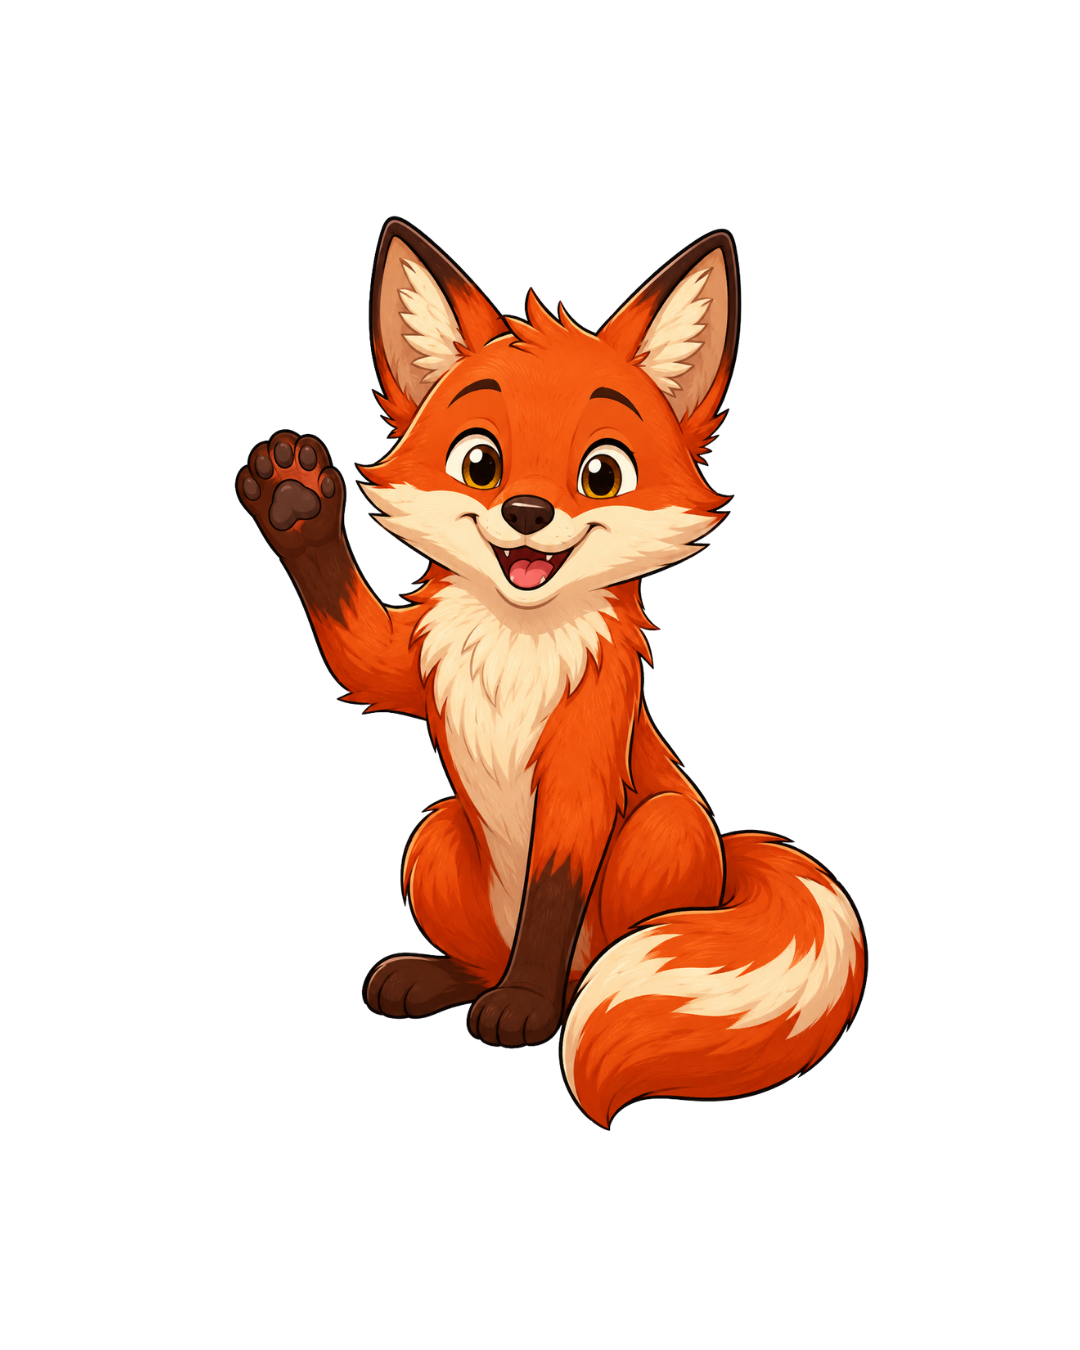
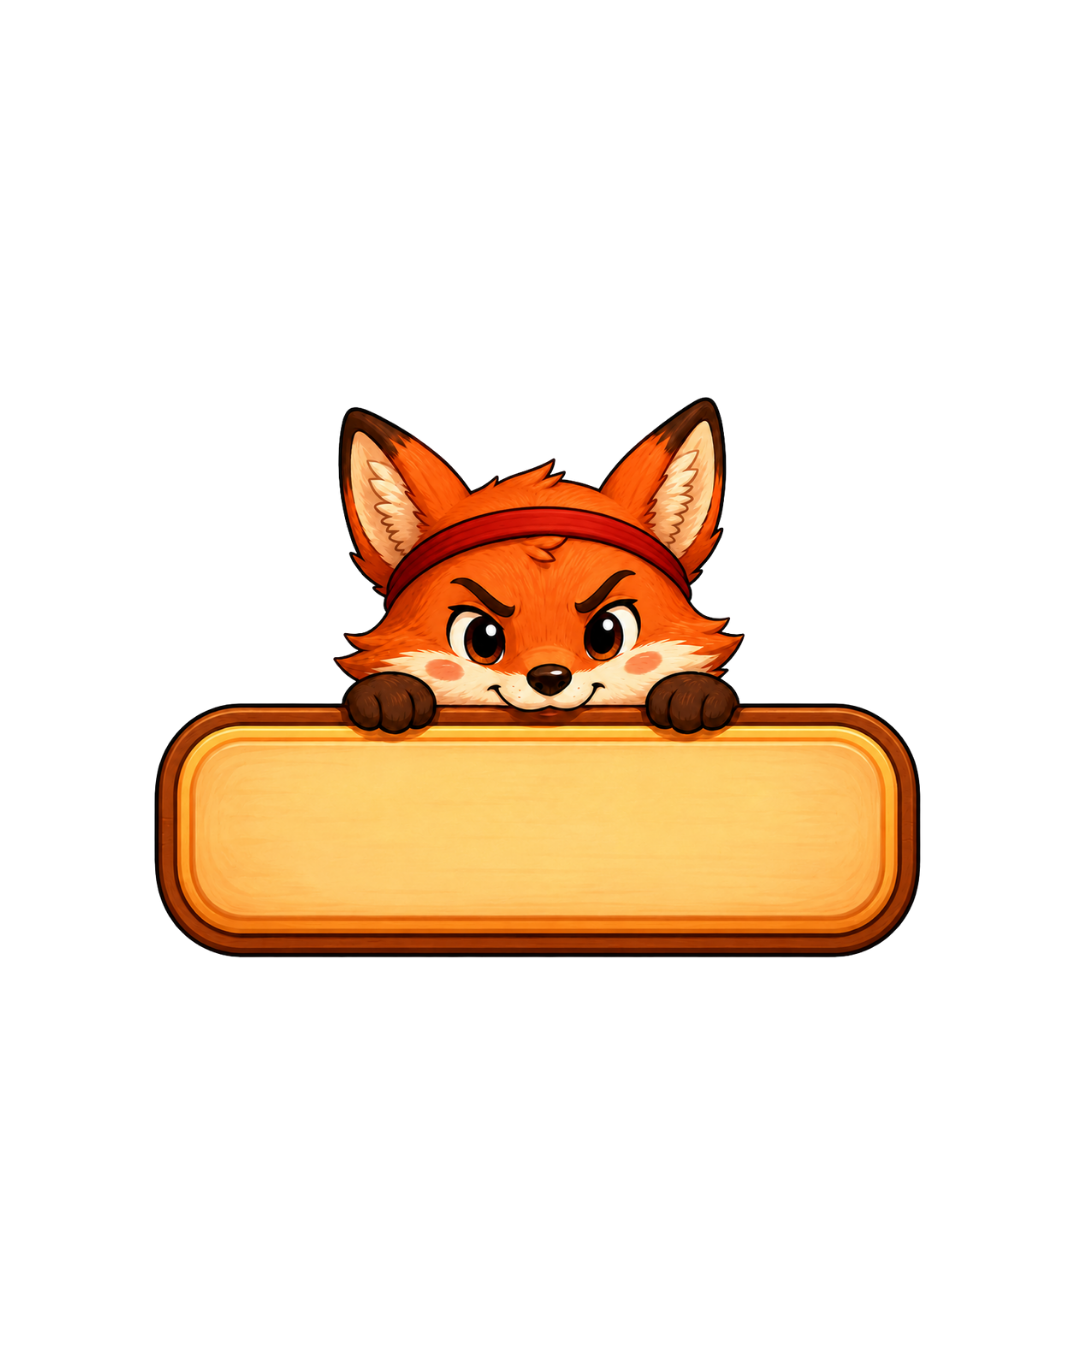
Home screen: fox sign-board shows current progress, doubles as Play
The mascot artwork was replaced with a new asset (fox peeking over a
blank wooden sign) intended as the primary CTA, not just decoration.

- The sign now carries live text, "第 N 關" — N is the earliest
  unlocked-but-not-completed level, or the last unlocked one once
  everything reached so far is done (i.e. a replay). Tapping the sign
  jumps straight into that level, same entry path as clicking its card
  in level-select.
- Old orange "開始遊戲" pill is gone — replaced by the sign button plus a
  small "揀關卡" text link underneath for picking a different unlocked
  level, so the level-select grid added earlier is still reachable in
  one tap.
- Text position is hand-placed against this specific image's plaque
  (top:57%, height:17%), not derived from anything — if the sign
  artwork changes again, that'll need eyeballing again too.

Changed region(s): [[0.1222, 0.1556, 0.8556, 0.84]]

diff --git a/index.html b/index.html
@@ -267,22 +267,31 @@
     margin:6px 0 0; font-size:clamp(13px, 3.4vw, 16px); color:#f4d9b4;
     text-shadow:0 2px 6px rgba(0,0,0,.6);
   }
-  #home-mascot{
-    width:clamp(150px, 42vw, 230px); height:auto; margin:10px 0 4px;
-    filter:drop-shadow(0 10px 18px rgba(0,0,0,.5));
-    animation:mascotBob 2.6s ease-in-out infinite;
-  }
   @keyframes mascotBob{
     0%,100%{ transform:translateY(0) rotate(-1deg); }
     50%{ transform:translateY(-9px) rotate(1.5deg); }
   }
-  #play-btn{
-    margin-top:6px; padding:15px 46px; border:none; border-radius:999px;
-    background:linear-gradient(160deg, var(--accent), #e8641a); color:#fff;
-    font-size:19px; font-weight:800; letter-spacing:1px; cursor:pointer;
-    box-shadow:0 8px 22px rgba(232,100,26,.5), inset 0 1px 0 rgba(255,255,255,.3);
+  /* 主畫面主要CTA：狐狸叼住個木牌，牌面寫返玩家目前進度到第幾關；
+     撳落去直接續玩嗰一關（同揀關畫面撳個卡係同一條路） */
+  #level-sign-btn{
+    position:relative; border:none; background:none; padding:0; margin:8px 0 2px; cursor:pointer;
+    width:clamp(190px, 56vw, 300px);
+    filter:drop-shadow(0 10px 18px rgba(0,0,0,.5));
+    animation:mascotBob 2.6s ease-in-out infinite;
   }
-  #play-btn:active{ transform:scale(.96); }
+  #level-sign-btn:active{ transform:scale(.96); }
+  #level-sign-btn img{ width:100%; height:auto; display:block; }
+  #level-sign-text{
+    position:absolute; left:8%; right:8%; top:57%; height:17%;
+    display:flex; align-items:center; justify-content:center;
+    font-size:clamp(17px, 5.4vw, 25px); font-weight:800; color:#5a3410;
+    text-shadow:0 1px 0 rgba(255,255,255,.35);
+  }
+  #level-select-link{
+    margin-top:4px; padding:6px 14px; border:none; background:none;
+    color:#f4d9b4; font-size:13px; text-decoration:underline; cursor:pointer;
+    text-shadow:0 2px 6px rgba(0,0,0,.7);
+  }
 
   /* ---------- 選關 ---------- */
   #level-select-screen{
@@ -391,8 +400,11 @@
   <div id="home-inner">
     <h1 id="home-title">Find The Fox</h1>
     <p id="home-sub">揾出匿埋咗嘅狐狸</p>
-    <img id="home-mascot" src="未命名設計 (17).png" alt="">
-    <button id="play-btn">▶ 開始遊戲</button>
+    <button id="level-sign-btn">
+      <img src="未命名設計 (17).png" alt="">
+      <span id="level-sign-text"></span>
+    </button>
+    <button id="level-select-link">揀關卡 ▸</button>
   </div>
 </div>
 
@@ -1408,7 +1420,19 @@
     window.setTimeout(finish, 12000);
   }
 
+  // The level the sign button should jump straight into: the earliest
+  // unlocked level not yet completed, or the last unlocked one on replay
+  // (i.e. once everything reached so far is done).
+  function nextLevelIndex(){
+    for (var i = 0; i <= progress.unlockedIndex; i++){
+      if (progress.completed.indexOf(i) === -1) return i;
+    }
+    return progress.unlockedIndex;
+  }
+
   function showHome(){
+    var idx = nextLevelIndex();
+    document.getElementById("level-sign-text").textContent = "第 " + (idx + 1) + " 關";
     homeScreen.classList.remove("hidden");
   }
 
@@ -1509,8 +1533,16 @@
     homeScreen.classList.add("hidden");
     loadLevel(0, null, true);          // preload level 1 behind the sequence, don't start its clock
     showLogoThen(function(){ playIntroThen(showHome); });
-    document.getElementById("play-btn").addEventListener("click", function(){
-      trackEvent("home_play_tapped", {});
+    // 木牌CTA：直接續玩目前進度嗰一關
+    document.getElementById("level-sign-btn").addEventListener("click", function(){
+      var idx = nextLevelIndex();
+      trackEvent("home_play_tapped", { level_id: LEVELS[idx].level_id });
+      homeScreen.classList.add("hidden");
+      loadLevel(idx); // beginLevel() fires once its own assets are ready
+    });
+    // 細字連結：想揀第二關（已解鎖）先用
+    document.getElementById("level-select-link").addEventListener("click", function(){
+      trackEvent("home_level_select_tapped", {});
       homeScreen.classList.add("hidden");
       showLevelSelect();
     });
